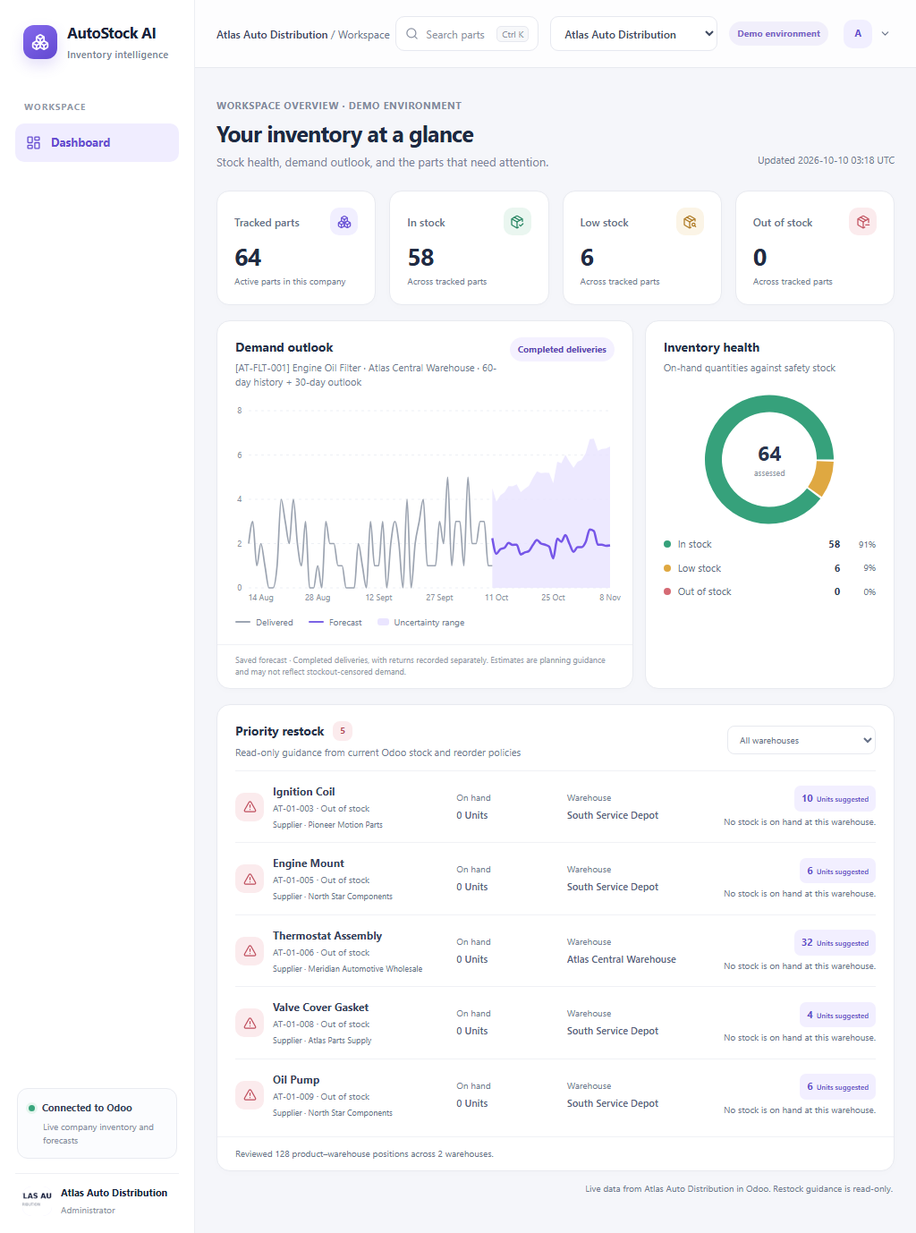
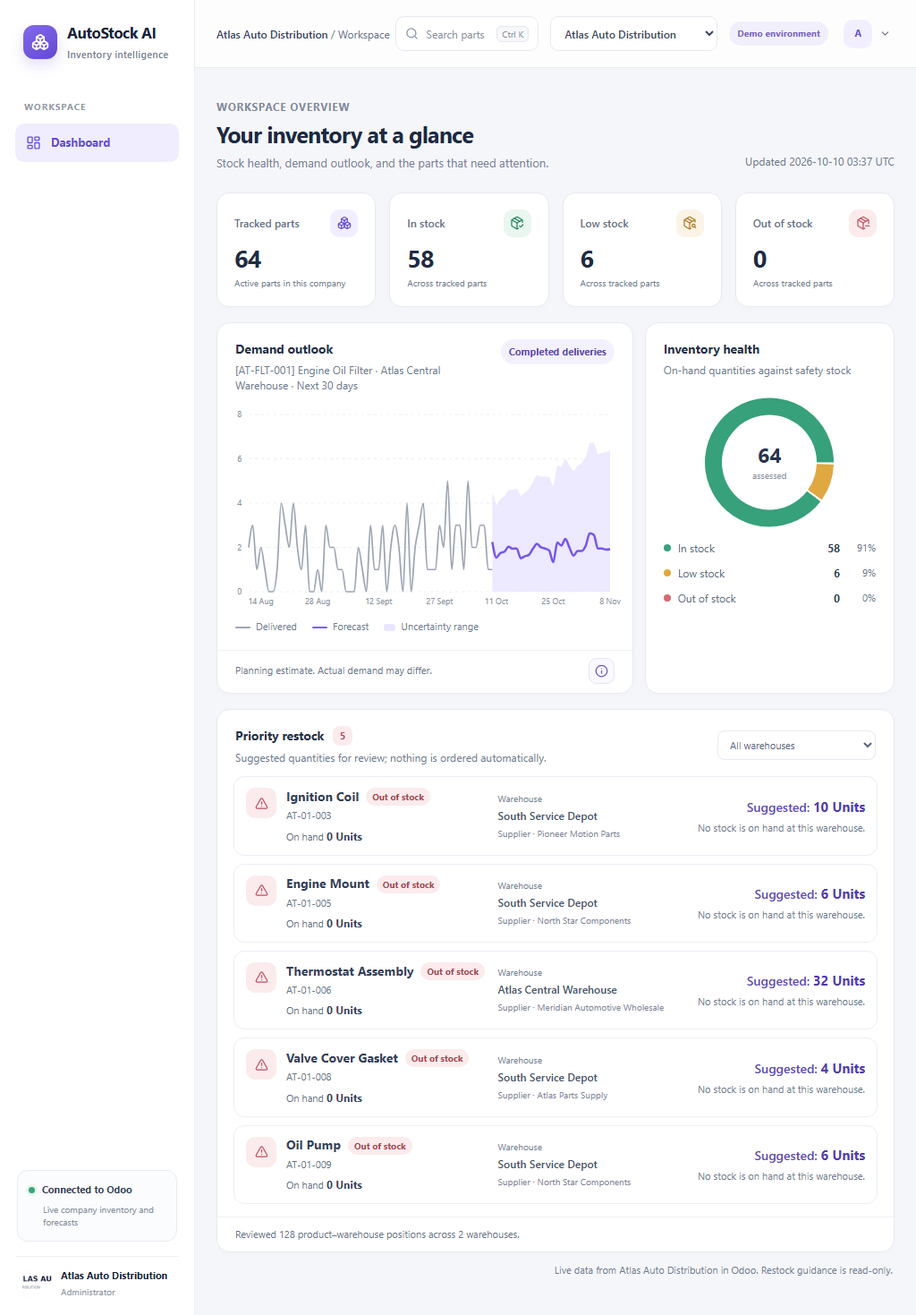
polish dashboard readability

diff --git a/frontend/src/styles/index.css b/frontend/src/styles/index.css
@@ -70,7 +70,7 @@
 body { margin: 0; min-width: 320px; min-height: 100vh; background: var(--background); }
 button, input, select { font: inherit; }
 button { cursor: pointer; }
-button:focus-visible, a:focus-visible, select:focus-visible, input:focus-visible {
+button:focus-visible, a:focus-visible, select:focus-visible, input:focus-visible, summary:focus-visible {
   outline: 3px solid color-mix(in srgb, var(--primary) 45%, transparent);
   outline-offset: 2px;
 }
@@ -117,10 +117,10 @@ a { color: inherit; }
 .user-avatar { display: grid; place-items: center; width: 32px; height: 32px; border-radius: 10px; background: #f1efff; color: #674ecf; font-size: 11px; font-weight: 750; }
 .page-content { max-width: 1470px; margin: 0 auto; padding: 34px clamp(22px,3vw,46px) 42px; }
 .page-heading { display: flex; justify-content: space-between; align-items: flex-end; gap: 20px; margin-bottom: 23px; }
-.eyebrow { color: #81899a; font-size: 11px; font-weight: 650; letter-spacing: .055em; text-transform: uppercase; margin: 0 0 8px; }
+.eyebrow { color: #81899a; font-size: 12px; font-weight: 650; letter-spacing: .055em; text-transform: uppercase; margin: 0 0 8px; }
 .page-title { color: #1d2941; margin: 0; font-size: clamp(25px,2.15vw,31px); letter-spacing: -.8px; font-weight: 720; line-height: 1.12; }
 .page-subtitle { color: #788297; font-size: 13px; margin: 8px 0 0; }
-.snapshot-label { color: #6d788e; font-size: 11px; white-space: nowrap; padding-bottom: 3px; }
+.snapshot-label { color: #6d788e; font-size: 12px; white-space: nowrap; padding-bottom: 3px; }
 .kpi-grid { display: grid; grid-template-columns: repeat(4,minmax(0,1fr)); gap: 15px; }
 .kpi-card { min-width: 0; min-height: 126px; padding: 18px 19px; border: 1px solid #e8eaf0; border-radius: 14px; background: #fff; box-shadow: 0 2px 8px #18223a04; }
 .kpi-top { display: flex; align-items: center; justify-content: space-between; gap: 8px; }
@@ -137,10 +137,10 @@ a { color: inherit; }
 .panel-header { min-height: 72px; padding: 18px 20px 12px; display: flex; align-items: flex-start; justify-content: space-between; gap: 14px; }
 .panel-heading { min-width: 0; }
 .panel-title { margin: 0; color: #253149; font-size: 14px; font-weight: 690; letter-spacing: -.12px; }
-.panel-subtitle { color: #6f7b90; margin: 5px 0 0; font-size: 11px; line-height: 1.45; }
-.source-pill { max-width: 145px; flex: 0 0 auto; color: #5c48b3; background: #f4f1ff; border-radius: 20px; padding: 6px 9px; font-size: 10px; font-weight: 650; text-align: center; }
+.panel-subtitle { color: #6f7b90; margin: 5px 0 0; font-size: 12px; line-height: 1.45; }
+.source-pill { max-width: 145px; flex: 0 0 auto; color: #5c48b3; background: #f4f1ff; border-radius: 20px; padding: 6px 9px; font-size: 11px; font-weight: 650; text-align: center; }
 .chart-area { height: 240px; padding: 3px 12px 0 3px; }
-.chart-legend { display: flex; align-items: center; gap: 17px; padding: 1px 20px 17px; color: #6f7b90; font-size: 10px; }
+.chart-legend { display: flex; align-items: center; gap: 17px; padding: 1px 20px 17px; color: #6f7b90; font-size: 11px; }
 .legend-item { display: inline-flex; align-items: center; gap: 6px; }
 .legend-line { width: 17px; height: 2px; border-radius: 2px; background: #7b63e5; }
 .legend-line.actual { background: #9da5b3; }
@@ -149,42 +149,48 @@ a { color: inherit; }
 .health-chart-wrap { width: 168px; height: 155px; margin: 0 auto 9px; position: relative; }
 .health-center { position: absolute; inset: 0; display: flex; flex-direction: column; justify-content: center; align-items: center; pointer-events: none; padding-top: 2px; }
 .health-center strong { color: #28344d; font-size: 23px; line-height: 1; font-weight: 730; font-variant-numeric: tabular-nums; }
-.health-center span { color: #8a92a2; font-size: 9px; margin-top: 5px; }
+.health-center span { color: #8a92a2; font-size: 10px; margin-top: 5px; }
 .health-legend { display: grid; gap: 10px; }
-.health-row { display: grid; grid-template-columns: 1fr auto auto; align-items: center; gap: 10px; color: #626e84; font-size: 11px; }
+.health-row { display: grid; grid-template-columns: 1fr auto auto; align-items: center; gap: 10px; color: #626e84; font-size: 12px; }
 .health-row-label { display: flex; align-items: center; gap: 8px; }
 .health-dot { width: 8px; height: 8px; border-radius: 50%; }
-.health-row strong { color: #303d55; font-size: 11px; font-weight: 670; font-variant-numeric: tabular-nums; }
-.health-share { color: #6d788d; font-size: 10px; width: 30px; text-align: right; }
-.coverage-note { color: #927127; background: #fbf5e8; border-radius: 8px; padding: 8px 9px; font-size: 9px; line-height: 1.4; margin-top: 14px; }
+.health-row strong { color: #303d55; font-size: 12px; font-weight: 670; font-variant-numeric: tabular-nums; }
+.health-share { color: #6d788d; font-size: 11px; width: 30px; text-align: right; }
+.coverage-note { color: #84651f; background: #fbf5e8; border-radius: 8px; padding: 8px 9px; font-size: 11px; line-height: 1.45; margin-top: 14px; }
 .restock-panel { margin-top: 17px; }
 .restock-header { align-items: center; }
 .restock-heading-wrap { display: flex; align-items: center; gap: 10px; }
-.restock-count { min-width: 22px; height: 22px; padding: 0 6px; border-radius: 8px; background: #fbebed; color: #b44b59; display: grid; place-items: center; font-size: 10px; font-weight: 720; }
-.warehouse-filter { color: #657087; border: 1px solid #e7e9ef; border-radius: 8px; padding: 7px 27px 7px 9px; background-color: #fff; font-size: 10px; max-width: 180px; }
-.alert-list { padding: 0 20px 7px; }
-.alert-item { display: grid; grid-template-columns: minmax(180px,1.1fr) minmax(86px,.55fr) minmax(130px,.95fr) minmax(130px,.9fr) auto; align-items: center; gap: 15px; padding: 13px 0; border-top: 1px solid #f0f1f5; }
-.alert-product { min-width: 0; display: flex; align-items: center; gap: 10px; }
-.alert-icon { flex: 0 0 auto; display: grid; place-items: center; width: 32px; height: 32px; border-radius: 10px; background: #faf0e2; color: #ae791f; }
+.restock-count { min-width: 22px; height: 22px; padding: 0 6px; border-radius: 8px; background: #fbebed; color: #b44b59; display: grid; place-items: center; font-size: 11px; font-weight: 720; }
+.warehouse-filter { color: #59667d; border: 1px solid #e7e9ef; border-radius: 8px; padding: 7px 27px 7px 9px; background-color: #fff; font-size: 11px; max-width: 180px; }
+.alert-list { display: grid; gap: 9px; padding: 0 18px 14px; }
+.alert-item { display: grid; grid-template-columns: minmax(0,1.2fr) minmax(145px,.85fr) minmax(190px,1fr); align-items: center; gap: 18px; padding: 12px 13px; border: 1px solid #eceef4; border-radius: 12px; background: #fff; }
+.alert-product { min-width: 0; display: flex; align-items: flex-start; gap: 11px; }
+.alert-icon { flex: 0 0 auto; display: grid; place-items: center; width: 34px; height: 34px; border-radius: 10px; background: #faf0e2; color: #ae791f; }
 .alert-icon.out { background: #fbebed; color: #bf4e5d; }
 .alert-icon.low { background: #fbf3e3; color: #a97822; }
 .alert-product-copy { min-width: 0; }
-.alert-product-name { color: #354159; font-size: 12px; font-weight: 650; white-space: nowrap; overflow: hidden; text-overflow: ellipsis; }
-.alert-product-sku { color: #6f7b90; font-size: 10px; margin-top: 3px; }
-.alert-mobile-current { display: none; }
-.alert-mobile-supplier { display: none; }
-.alert-meta-label { color: #707c91; font-size: 10px; margin-bottom: 4px; }
-.alert-meta-value { color: #526078; font-size: 11px; font-weight: 570; white-space: nowrap; overflow: hidden; text-overflow: ellipsis; }
-.alert-recommendation { text-align: right; }
-.quantity-pill { background: #f2efff; color: #634bca; border-radius: 7px; padding: 6px 8px; display: inline-flex; align-items: baseline; gap: 4px; white-space: nowrap; font-size: 11px; font-weight: 700; }
-.quantity-pill small { font-size: 8px; font-weight: 600; }
-.alert-reason { color: #69758b; font-size: 10px; max-width: 210px; margin-top: 5px; line-height: 1.35; }
+.alert-title-row { display: flex; align-items: center; flex-wrap: wrap; gap: 6px 8px; }
+.alert-product-name { color: #354159; font-size: 14px; font-weight: 680; line-height: 1.3; }
+.alert-product-sku { color: #68758a; font-size: 11px; margin-top: 3px; }
+.alert-stock-status { display: inline-flex; align-items: center; border-radius: 20px; padding: 4px 7px; font-size: 10px; font-weight: 650; line-height: 1.2; white-space: nowrap; }
+.alert-stock-status.out { color: #a83f4c; background: #fbebed; }
+.alert-stock-status.low, .alert-stock-status.projected { color: #91681e; background: #fbf3e4; }
+.alert-on-hand { color: #657187; font-size: 11px; margin-top: 6px; line-height: 1.35; }
+.alert-on-hand strong { color: #37435a; font-size: 12px; font-weight: 650; font-variant-numeric: tabular-nums; }
+.alert-location-details { min-width: 0; display: grid; gap: 6px; }
+.alert-meta-label { color: #737f94; font-size: 10px; margin-bottom: 3px; }
+.alert-meta-value { color: #46536a; font-size: 12px; font-weight: 620; line-height: 1.35; white-space: normal; overflow-wrap: anywhere; }
+.alert-supplier { color: #7d8799; font-size: 10px; line-height: 1.35; overflow-wrap: anywhere; }
+.alert-recommendation { min-width: 0; text-align: right; }
+.quantity-copy { color: #5b49b6; margin: 0; font-size: 14px; line-height: 1.35; font-weight: 560; }
+.quantity-copy strong { color: #513caf; font-size: 15px; font-weight: 750; white-space: nowrap; }
+.alert-reason { color: #6f7b90; font-size: 11px; max-width: 250px; margin: 5px 0 0 auto; line-height: 1.4; }
 .empty-state { min-height: 170px; display: grid; place-items: center; text-align: center; padding: 26px 18px; color: #7a8498; }
 .empty-icon { width: 38px; height: 38px; border-radius: 12px; background: #eef7f2; color: #378767; display: grid; place-items: center; margin: 0 auto 10px; }
 .empty-state strong { display: block; color: #39465d; font-size: 12px; font-weight: 680; }
 .empty-state p { margin: 5px auto 0; color: #8b93a2; font-size: 10px; line-height: 1.45; max-width: 290px; }
-.coverage-footer { border-top: 1px solid #f0f1f5; padding: 11px 20px; color: #68748a; font-size: 10px; line-height: 1.45; }
-.page-footnote { color: #6f7b90; font-size: 10px; text-align: right; padding: 12px 2px 0; }
+.coverage-footer { border-top: 1px solid #f0f1f5; padding: 11px 20px; color: #68748a; font-size: 11px; line-height: 1.45; }
+.page-footnote { color: #6f7b90; font-size: 11px; text-align: right; padding: 12px 2px 0; }
 .login-shell, .error-shell { min-height: 100vh; display: grid; place-items: center; padding: 24px; }
 .login-card { width: min(100%,410px); padding: 32px; border: 1px solid #e7e9f0; border-radius: 18px; background: #fff; box-shadow: 0 20px 70px #27335512; }
 .login-card .brand { padding: 0; }
@@ -224,10 +230,18 @@ a { color: inherit; }
 .chart-unavailable strong { color: #39465d; font-size: 12px; font-weight: 680; }
 .chart-unavailable p { max-width: 310px; color: #868fa0; font-size: 10px; line-height: 1.5; margin: 6px 0 0; }
 .chart-loading, .health-chart-loading { display: grid; place-items: center; width: 100%; height: 100%; color: #8c94a4; font-size: 10px; }
-.forecast-context { color: #9299a7; font-size: 9px; line-height: 1.45; border-top: 1px solid #f0f1f5; padding: 10px 20px 12px; margin: 0; }
+.forecast-footer { border-top: 1px solid #f0f1f5; padding: 8px 20px 10px; display: flex; align-items: center; justify-content: space-between; gap: 12px; }
+.forecast-context { color: #68758a; font-size: 11px; line-height: 1.45; margin: 0; }
+.forecast-details { position: relative; flex: 0 0 auto; }
+.forecast-details > summary { list-style: none; width: 29px; height: 29px; display: grid; place-items: center; border: 1px solid #e7e4f4; border-radius: 9px; background: #faf9ff; color: #6652c3; cursor: pointer; }
+.forecast-details > summary::-webkit-details-marker { display: none; }
+.forecast-details[open] > summary { background: #f0edff; }
+.forecast-details-panel { position: absolute; right: 0; bottom: calc(100% + 8px); z-index: 10; width: min(330px,calc(100vw - 36px)); padding: 13px 14px; border: 1px solid #e6e8ef; border-radius: 11px; background: #fff; box-shadow: 0 12px 32px #2331501a; color: #3c485f; }
+.forecast-details-panel strong { font-size: 12px; font-weight: 700; }
+.forecast-details-panel p { color: #68758a; font-size: 11px; line-height: 1.5; margin: 5px 0 0; }
 .health-chart-empty::before { content: ''; position: absolute; width: 116px; height: 116px; border: 13px solid #eff1f5; border-radius: 50%; }
 .neutral-note { color: #737e91; background: #f4f5f8; }
-.review-policy { display: inline-flex; padding: 6px 8px; border-radius: 7px; color: #956d1d; background: #fbf4e4; font-size: 9px; font-weight: 680; }
+.review-policy { display: inline-flex; color: #91681e; font-size: 12px; font-weight: 680; }
 .panel-error { display: flex; align-items: center; gap: 12px; min-height: 105px; padding: 19px; }
 .panel-error-icon { color: #946c1e; background: #fbf4e4; display: grid; place-items: center; border-radius: 9px; width: 30px; height: 30px; flex: 0 0 auto; }
 .panel-error strong { color: #3c485f; font-size: 11px; }
@@ -244,9 +258,7 @@ a { color: inherit; }
   .topbar { padding-inline: 24px; }
   .page-content { padding-inline: 24px; }
   .analytics-grid { grid-template-columns: minmax(0,1.5fr) minmax(268px,.9fr); gap: 13px; }
-  .alert-item { grid-template-columns: minmax(175px,1.15fr) minmax(82px,.55fr) minmax(125px,.8fr) auto; gap: 10px; }
-  .alert-supplier { display: none; }
-  .alert-mobile-supplier { display: block; color: #667389; font-size: 9px; margin-top: 4px; }
+  .alert-item { grid-template-columns: minmax(0,1.15fr) minmax(125px,.8fr) minmax(160px,.9fr); gap: 12px; }
 }
 @media (max-width: 900px) {
   .sidebar.desktop { display: none; }
@@ -255,55 +267,72 @@ a { color: inherit; }
   .analytics-grid { grid-template-columns: minmax(0,1.55fr) minmax(250px,.9fr); }
   .kpi-grid { gap: 11px; }
   .kpi-card { padding: 16px; }
-  .alert-item { grid-template-columns: minmax(145px,1fr) minmax(80px,.55fr) minmax(105px,.8fr) auto; }
+  .alert-item { grid-template-columns: minmax(0,1.15fr) minmax(120px,.8fr) minmax(150px,.9fr); gap: 10px; }
 }
 @media (max-width: 700px) {
-  .topbar { height: 62px; padding-inline: 14px; gap: 8px; }
+  .topbar { height: 62px; padding-inline: 14px; gap: 6px; }
   .workspace-context { display: none; }
-  .topbar-left, .topbar-actions { gap: 8px; }
+  .topbar-left, .topbar-actions { gap: 6px; }
   .search-trigger { width: 39px; padding: 0; justify-content: center; border: 0; background: transparent; }
   .search-trigger span, .search-trigger .keycap { display: none; }
-  .company-select { max-width: 150px; width: 136px; height: 36px; font-size: 10px; }
-  .demo-pill { display: none; }
+  .company-select { max-width: 118px; width: clamp(94px,30vw,118px); height: 36px; padding-inline: 7px 22px; font-size: 10px; }
+  .demo-pill { padding: 5px 6px; font-size: 9px; }
   .user-menu-button { padding: 1px; }
   .user-chevron { display: none; }
   .page-content { padding: 25px 14px 28px; }
   .page-heading { align-items: flex-start; flex-direction: column; gap: 8px; margin-bottom: 17px; }
   .page-title { font-size: 25px; }
   .page-subtitle { font-size: 11px; }
-  .snapshot-label { font-size: 9px; }
+  .snapshot-label { font-size: 10px; }
   .kpi-grid { grid-template-columns: repeat(2,minmax(0,1fr)); gap: 9px; }
   .kpi-card { min-height: 110px; padding: 14px; border-radius: 12px; }
-  .kpi-label { font-size: 10px; }
+  .kpi-label { font-size: 11px; }
   .kpi-icon { width: 28px; height: 28px; }
   .kpi-value { font-size: 24px; margin-top: 9px; }
-  .kpi-foot { font-size: 9px; }
+  .kpi-foot { font-size: 10px; }
   .analytics-grid { grid-template-columns: minmax(0,1fr); gap: 11px; margin-top: 11px; }
   .panel-header { min-height: 67px; padding: 16px 15px 10px; }
   .panel-title { font-size: 13px; }
-  .panel-subtitle { font-size: 10px; }
-  .source-pill { max-width: 105px; font-size: 9px; padding: 5px 7px; }
+  .panel-subtitle { font-size: 11px; }
+  .source-pill { max-width: 105px; font-size: 10px; padding: 5px 7px; }
   .chart-area { height: 216px; padding-left: 0; padding-right: 9px; }
-  .forecast-context { padding: 9px 15px 11px; font-size: 8px; }
+  .forecast-footer { padding: 8px 15px 10px; }
+  .forecast-context { font-size: 10px; }
+  .forecast-details-panel { right: -3px; }
   .chart-unavailable { height: 216px; }
-  .chart-legend { padding: 1px 15px 14px; gap: 12px; font-size: 9px; }
+  .chart-legend { padding: 1px 15px 14px; gap: 12px; font-size: 10px; }
   .health-body { padding: 0 15px 15px; }
   .health-chart-wrap { height: 143px; margin-bottom: 6px; }
   .restock-panel { margin-top: 11px; }
   .restock-header { align-items: flex-start; }
   .restock-heading-wrap { gap: 7px; }
-  .warehouse-filter { max-width: 133px; padding: 7px 22px 7px 7px; font-size: 9px; }
-  .alert-list { padding: 0 14px 5px; }
-  .alert-item { grid-template-columns: minmax(0,1fr) auto; gap: 8px; padding: 12px 0; }
-  .alert-current, .alert-location, .alert-supplier { display: none; }
-  .alert-product-name { font-size: 11px; }
-  .alert-product-sku { font-size: 9px; }
-  .alert-mobile-current { display: block; color: #56627a; font-size: 9px; margin-top: 4px; }
-  .alert-mobile-supplier { font-size: 9px; }
-  .alert-recommendation { max-width: 115px; }
-  .alert-reason { max-width: 130px; font-size: 9px; }
-  .coverage-footer { padding: 10px 14px; font-size: 9px; }
-  .page-footnote { font-size: 9px; }
+  .warehouse-filter { max-width: 133px; padding: 7px 22px 7px 7px; font-size: 10px; }
+  .alert-list { padding: 0 10px 12px; gap: 8px; }
+  .alert-item { grid-template-columns: minmax(0,1fr); gap: 9px; padding: 12px 10px; }
+  .alert-product { gap: 10px; }
+  .alert-product-name { font-size: 13px; white-space: normal; }
+  .alert-product-sku { font-size: 10px; }
+  .alert-stock-status { font-size: 10px; }
+  .alert-on-hand { font-size: 10px; margin-top: 4px; }
+  .alert-on-hand strong { font-size: 11px; }
+  .alert-location-details { display: flex; flex-wrap: wrap; align-items: baseline; gap: 5px 14px; padding-left: 44px; }
+  .alert-location { display: inline-flex; align-items: baseline; gap: 6px; }
+  .alert-meta-label { font-size: 10px; margin: 0; }
+  .alert-meta-value { font-size: 11px; }
+  .alert-supplier { font-size: 10px; }
+  .alert-recommendation { padding-left: 44px; text-align: left; }
+  .quantity-copy { font-size: 13px; }
+  .quantity-copy strong { font-size: 14px; }
+  .alert-reason { max-width: none; font-size: 10px; margin: 3px 0 0; }
+  .coverage-footer { padding: 10px 14px; font-size: 10px; }
+  .page-footnote { font-size: 10px; }
+}
+@media (max-width: 360px) {
+  .topbar { padding-inline: 10px; }
+  .company-select { width: 90px; }
+  .demo-pill { padding: 4px 5px; font-size: 8px; }
+  .mobile-menu-button { width: 36px; }
+  .user-avatar { width: 30px; height: 30px; }
 }
 @media (prefers-reduced-motion: reduce) {
   *, *::before, *::after { scroll-behavior: auto !important; animation-duration: .01ms !important; animation-iteration-count: 1 !important; transition-duration: .01ms !important; }

diff --git a/frontend/src/components/dashboard-panels.tsx b/frontend/src/components/dashboard-panels.tsx
@@ -1,6 +1,6 @@
 import { lazy, Suspense } from 'react'
 import {
-  AlertTriangle, Boxes, CircleCheck, PackageCheck, PackageMinus, PackageSearch, RefreshCw,
+  AlertTriangle, Boxes, CircleCheck, Info, PackageCheck, PackageMinus, PackageSearch, RefreshCw,
 } from 'lucide-react'
 import type { DashboardData, ForecastData, RestockData } from '@/api/contracts'
 import { combineDemandHistory, formatQuantity } from '@/lib/dashboard'
@@ -63,9 +63,9 @@ export function ForecastPanel({ forecast }: { forecast: ForecastData }) {
       <div className="panel-header">
         <div className="panel-heading">
           <h2 id="forecast-title" className="panel-title">Demand outlook</h2>
-          <p className="panel-subtitle">{run.product_name} <span aria-hidden="true">·</span> {run.warehouse_name || 'Company-wide history'} <span aria-hidden="true">·</span> 60-day history + {run.horizon_days}-day outlook</p>
+          <p className="panel-subtitle">{run.product_name} <span aria-hidden="true">·</span> {run.warehouse_name || 'All warehouses'} <span aria-hidden="true">·</span> Next {run.horizon_days} days</p>
         </div>
-          <span className="source-pill" title={run.source_label}>{run.source_type === 'synthetic_demo' ? 'Demo history' : 'Completed deliveries'}</span>
+        <span className="source-pill" title={run.source_label}>{run.source_type === 'synthetic_demo' ? 'Demo history' : 'Completed deliveries'}</span>
       </div>
       {chartData.length ? (
         <div className="chart-area" role="img" aria-label={`Daily units for ${run.product_name}; observed delivery history followed by a forecast with an uncertainty range.`}>
@@ -79,7 +79,16 @@ export function ForecastPanel({ forecast }: { forecast: ForecastData }) {
         <span className="legend-item"><span className="legend-line" /> Forecast</span>
         <span className="legend-item"><span className="legend-band" /> Uncertainty range</span>
       </div>
-      <p className="forecast-context">{run.review_status === 'reviewed' ? 'Reviewed forecast' : 'Saved forecast'} · {run.source_label}. Estimates are planning guidance and may not reflect stockout-censored demand.</p>
+      <div className="forecast-footer">
+        <p className="forecast-context">Planning estimate. Actual demand may differ.</p>
+        <details className="forecast-details">
+          <summary aria-label="About this demand estimate" title="About this demand estimate"><Info size={15} /></summary>
+          <div className="forecast-details-panel">
+            <strong>About this estimate</strong>
+            <p>{run.review_status === 'reviewed' ? 'Reviewed forecast' : 'Saved forecast'}. Source: {run.source_label}. {run.limitations}</p>
+          </div>
+        </details>
+      </div>
     </section>
   )
 }
@@ -143,7 +152,7 @@ export function RestockPanel({ data, warehouseId, onWarehouseChange }: {
       <div className="panel-header restock-header">
         <div className="panel-heading">
           <div className="restock-heading-wrap"><h2 id="restock-title" className="panel-title">Priority restock</h2><span className="restock-count" aria-label={`${data.items.length} alert${data.items.length === 1 ? '' : 's'}`}>{data.items.length}</span></div>
-          <p className="panel-subtitle">Read-only guidance from current Odoo stock and reorder policies</p>
+          <p className="panel-subtitle">Suggested quantities for review; nothing is ordered automatically.</p>
         </div>
         {data.warehouses.length > 1 && (
           <label>
@@ -162,19 +171,22 @@ export function RestockPanel({ data, warehouseId, onWarehouseChange }: {
               <div className="alert-product">
                 <RiskStatusIcon status={item.status} />
                 <div className="alert-product-copy">
-                  <div className="alert-product-name" title={item.name}>{item.name}</div>
-                  <div className="alert-product-sku">{item.sku} <span aria-hidden="true">·</span> {item.status_label}</div>
-                  <div className="alert-mobile-current">On hand {formatQuantity(item.current_qty)} {item.uom}</div>
-                  <div className="alert-mobile-supplier">Supplier · {item.supplier_name || 'Not listed'}</div>
+                  <div className="alert-title-row">
+                    <div className="alert-product-name" title={item.name}>{item.name}</div>
+                    <span className={`alert-stock-status ${item.status === 'out' ? 'out' : item.status === 'shortage' ? 'projected' : 'low'}`}>{item.status_label}</span>
+                  </div>
+                  <div className="alert-product-sku">{item.sku}</div>
+                  <div className="alert-on-hand">On hand <strong>{formatQuantity(item.current_qty)} {item.uom}</strong></div>
                 </div>
               </div>
-              <div className="alert-meta alert-current"><div className="alert-meta-label">On hand</div><div className="alert-meta-value">{formatQuantity(item.current_qty)} {item.uom}</div></div>
-              <div className="alert-meta alert-location"><div className="alert-meta-label">Warehouse</div><div className="alert-meta-value" title={item.warehouse}>{item.warehouse}</div></div>
-              <div className="alert-meta alert-supplier"><div className="alert-meta-label">Supplier</div><div className="alert-meta-value" title={item.supplier_name || undefined}>{item.supplier_name || 'Supplier not listed'}</div></div>
+              <div className="alert-location-details">
+                <div className="alert-meta alert-location"><div className="alert-meta-label">Warehouse</div><div className="alert-meta-value" title={item.warehouse}>{item.warehouse}</div></div>
+                <div className="alert-supplier" title={item.supplier_name || undefined}>Supplier · {item.supplier_name || 'Not listed'}</div>
+              </div>
               <div className="alert-recommendation">
                 {item.recommended_qty !== false
-                  ? <span className="quantity-pill">{formatQuantity(item.recommended_qty)} <small>{item.uom} suggested</small></span>
-                  : <span className="review-policy">Review policy</span>}
+                  ? <p className="quantity-copy">Suggested: <strong>{formatQuantity(item.recommended_qty)} {item.uom}</strong></p>
+                  : <span className="review-policy">Review reorder settings</span>}
                 <div className="alert-reason" title={item.basis_note}>{item.reason}</div>
               </div>
             </article>

diff --git a/frontend/tests/browser/dashboard.spec.ts b/frontend/tests/browser/dashboard.spec.ts
@@ -119,15 +119,29 @@ test('dashboard renders responsively without browser errors or clipped chart wid
   page.on('console', (message) => { if (message.type() === 'error') consoleErrors.push(message.text()) })
   await installApiFixtures(page)
 
-  for (const viewport of [{ width: 1440, height: 960 }, { width: 1024, height: 768 }, { width: 390, height: 844 }]) {
+  for (const viewport of [{ width: 1440, height: 960 }, { width: 1024, height: 768 }, { width: 390, height: 844 }, { width: 320, height: 800 }]) {
     await page.setViewportSize(viewport)
     await page.goto('/')
     await waitForDashboard(page)
+    await expect(page.locator('.eyebrow')).toHaveText('Workspace overview')
+    await expect(page.getByText('Demo environment', { exact: true })).toHaveCount(1)
+    await expect(page.locator('.demo-pill')).toBeVisible()
+    await expect(page.locator('.forecast-panel .panel-subtitle')).toContainText('Next 30 days')
+    await expect(page.locator('.forecast-panel .panel-subtitle')).not.toContainText('history')
     if (viewport.width === 1440) {
       const firstAlert = page.locator('.alert-item').first()
       await expect(firstAlert.locator('.alert-product-name')).toHaveText('Front Brake Rotor')
       await expect(firstAlert.locator('.alert-product-sku')).toContainText('BRK-440')
       await expect(firstAlert.locator('.alert-product-name')).not.toContainText('BRK-440')
+      await expect(firstAlert.locator('.alert-stock-status')).toHaveText('Low stock')
+      await expect(firstAlert.locator('.alert-location .alert-meta-value')).toHaveText('Central warehouse')
+      await expect(firstAlert.locator('.quantity-copy')).toHaveText('Suggested: 12 Units')
+      await expect(page.locator('.review-policy')).toHaveText('Review reorder settings')
+      const forecastDetails = page.locator('.forecast-details')
+      await forecastDetails.locator('summary').click()
+      await expect(forecastDetails.locator('.forecast-details-panel')).toContainText('Source: Synthetic demo')
+      await expect(forecastDetails.locator('.forecast-details-panel')).toContainText('Not a forecast-quality claim')
+      await forecastDetails.locator('summary').click()
     }
     if (viewport.width === 1440) {
       await page.locator('.chart-area').hover({ position: { x: 150, y: 100 } })

diff --git a/frontend/src/routes/dashboard.tsx b/frontend/src/routes/dashboard.tsx
@@ -143,7 +143,7 @@ export function DashboardPage() {
         <main className="page-content">
           <div className="page-heading">
             <div>
-              <p className="eyebrow">Workspace overview{session.current_company.demo_environment ? ' · Demo environment' : ''}</p>
+              <p className="eyebrow">Workspace overview</p>
               <h1 className="page-title">Your inventory at a glance</h1>
               <p className="page-subtitle">Stock health, demand outlook, and the parts that need attention.</p>
             </div>

diff --git a/docs/qa/react-dashboard-foundation.md b/docs/qa/react-dashboard-foundation.md
@@ -6,9 +6,9 @@
 
 ## Result
 
-The React Dashboard ran against the separate local Odoo showroom database `autostock_showroom_demo` for the fictional Atlas Auto Distribution business. The page fetched the displayed data through the authenticated `/autostock/api/v1/` routes. The browser capture script verified live product search and a warehouse-filtered restock preview, and found zero page errors, console errors, or API failures.
+The React Dashboard ran against the separate local Odoo showroom database `autostock_showroom_demo` for the fictional Atlas Auto Distribution business. The page fetched the displayed data through the authenticated `/autostock/api/v1/` routes. The browser capture script verified live product search and a warehouse-filtered restock preview, and found zero page errors, console errors, or API failures. This capture refresh applies the focused readability polish from the latest live review while retaining the accepted layout and visual direction.
 
-The screenshots below are actual browser captures of the Odoo-backed showroom, not frontend fixtures. They show the 64 tracked parts, current inventory-health counts, a saved delivery-based forecast preview, and five warehouse-level priority restock positions. Restock rows display the human product name separately from the SKU. The company is marked discreetly as a Demo environment. Forecast and reorder values are supplied by Odoo services; the React client does not reimplement those calculations.
+The screenshots below are actual browser captures of the Odoo-backed showroom, not frontend fixtures. They show the 64 tracked parts, current inventory-health counts, a saved delivery-based forecast preview, and five warehouse-level priority restock positions. Each restock card puts the part name, stock status, on-hand quantity, warehouse, and suggested quantity in the main scan path; supplier detail is secondary. The human product name and SKU stay separate. Forecast copy says “Next 30 days,” shows the source type, and places detailed provenance and limitations behind a keyboard-accessible information disclosure. The company has one discreet Demo environment indicator, including on mobile. Forecast and reorder values are supplied by Odoo services; the React client does not reimplement those calculations.
 
 ## Screenshots
 
@@ -22,7 +22,7 @@ Each capture passed the screenshot script's horizontal-overflow check and verifi
 
 ## Design review
 
-The new shell follows the approved `design/dashboard-concept.png` through a compact brand rail, quiet neutral canvas, violet active state, crisp card hierarchy, four glanceable KPIs, a large demand chart, an inventory-health visualization, and prioritized restock guidance. The responsive captures keep the chart readable and retain the product, warehouse, supplier, and quantity details without a giant table.
+The new shell follows the approved `design/dashboard-concept.png` through a compact brand rail, quiet neutral canvas, violet active state, crisp card hierarchy, four glanceable KPIs, a large demand chart, an inventory-health visualization, and prioritized restock guidance. This polish preserves that direction while making restock alerts individual cards rather than a dense row of table fields. The responsive captures keep the chart readable and the product, status, on-hand, warehouse, and suggested quantity easy to scan; supplier detail remains available with less visual weight.
 
 This first PR intentionally has one working Dashboard. It omits the concept's forecast-accuracy claim and future workflow areas such as full Forecasts, Inventory, purchasing, reports, and an assistant. The demo database contains only one authorized company, so company selection is shown but a second live-company switch could not be demonstrated with this showroom. The browser suite tests company-switch refresh behavior with isolated fixtures; Odoo tests exercise authenticated identity, an invalid company rejection, and the standard inventory access gate. No claim of release-grade accessibility or performance audit is made here.
 
@@ -37,7 +37,7 @@ The old Owl/Odoo dashboard was left unchanged. This PR adds the React client alo
 | `npm run typecheck` | Passed |
 | `npm run test:unit` | Passed, 3 tests |
 | `npm run test:contract` | Passed, 5 tests |
-| `npm run test:browser` | Passed, 3 tests covering responsive layout, chart interaction, mobile navigation, company refresh, and product search |
+| `npm run test:browser` | Passed, 3 tests covering 1440, 1024, 390, and 320 px layouts, forecast details, restock hierarchy, chart interaction, mobile navigation, company refresh, and product search |
 | `npm run build` | Passed |
 | Actual showroom screenshot and interaction capture | Passed at 1440, 1024, and 390 px; 5 live restock alerts; warehouse filter and product search passed; no browser or API errors |
 | `python -m pytest -q` | Passed, 38 tests |
